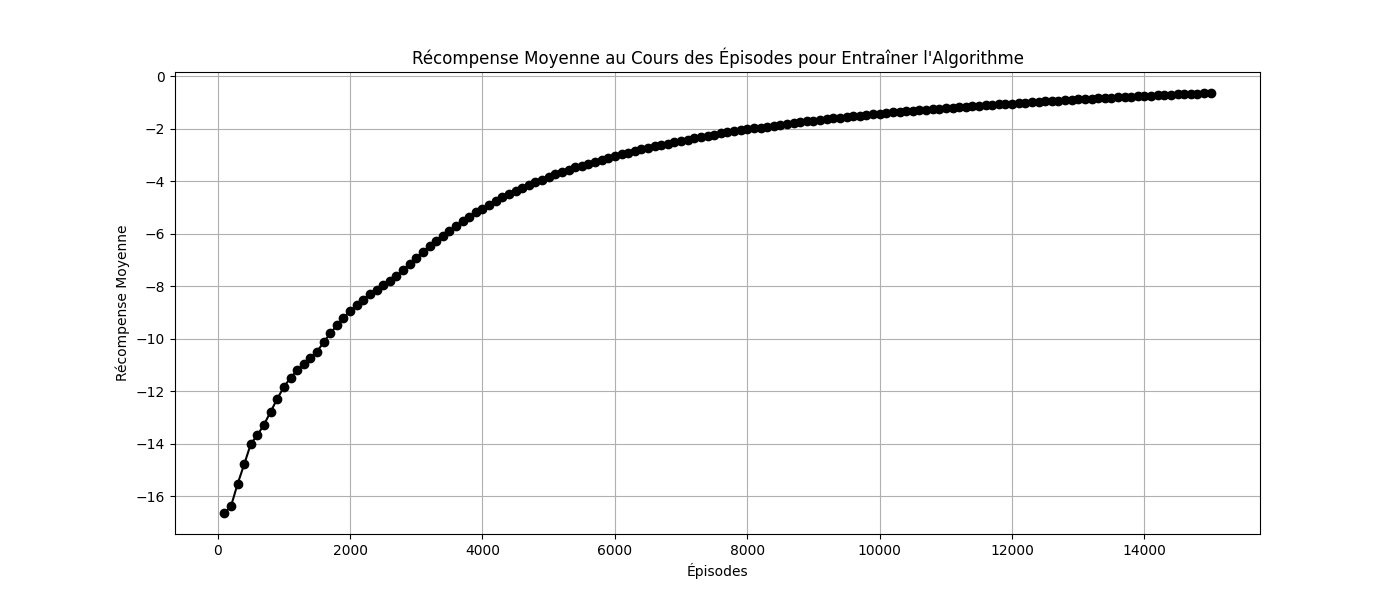
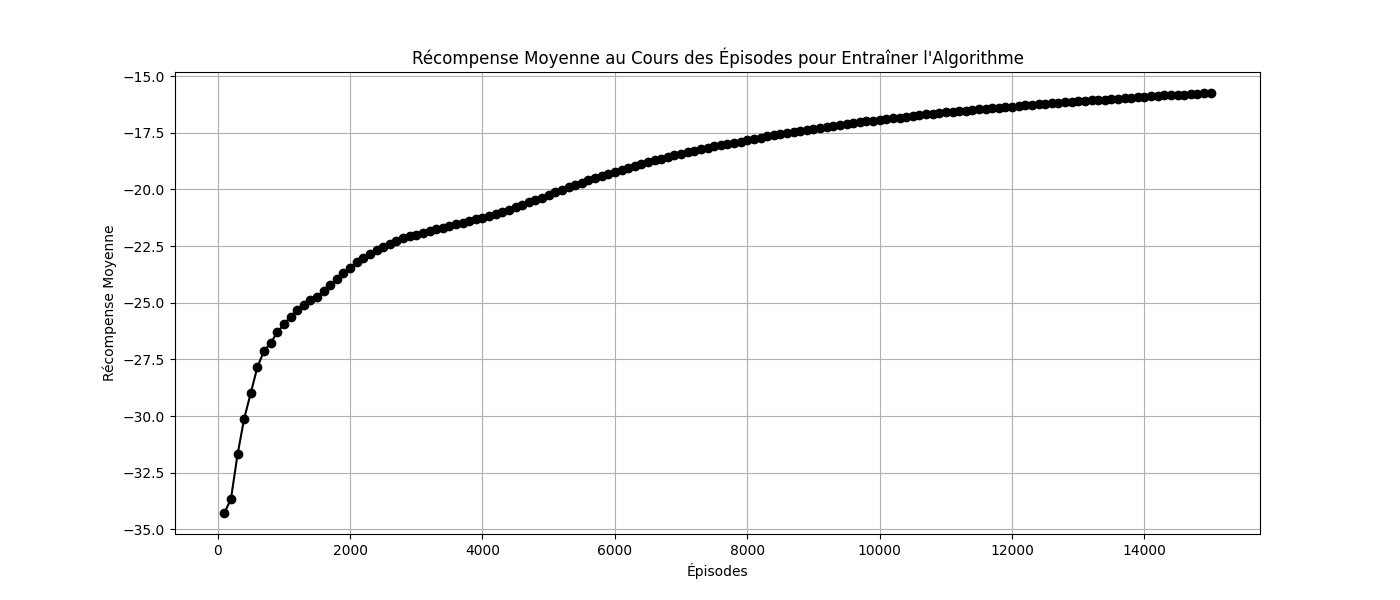
Agents Trained

diff --git a/multi_hydrogen_recharge/multi_hydrogen_recharge_random_actions.py b/multi_hydrogen_recharge/multi_hydrogen_recharge_random_actions.py
@@ -5,7 +5,7 @@ import pandas as pd
 
 # Set the default parameters for running the environment simulation
 seed = 30
-num_vehicles = 3
+num_vehicles = 7
 
 # --------------------------------------------------------------------
 
@@ -33,7 +33,7 @@ for episode in range(num_episodes):
       
     # Vehicles take random action
     #actions = np.random.rand(env.num_vehicles, 4) # Random actions
-    actions = np.array([[1., 0., 0., 0.] for _ in range(env.num_vehicles)]) # Only urgency and price policy
+    actions = np.array([[1., 0., 0., 1.] for _ in range(env.num_vehicles)]) # Only urgency and price policy
 
     # Execute the action and take the next observation, reward and done (terminal state)
     observation, rewards, done = env.step(actions)
@@ -90,8 +90,6 @@ ax1.tick_params(axis='y', labelcolor=color)
 plt.title("Moyenne des Récompenses au Cours des Épisodes pour Politique de Seulement Urgence et Prix")
 fig.tight_layout()
 plt.show()
-
-# Politique de Seulement Urgence et Prix
 
 print('Descriptive statistics of the number of steps')
 print(pd.Series(num_steps_list).describe())

diff --git a/multi_hydrogen_recharge/multi_hydrogen_recharge_test.py b/multi_hydrogen_recharge/multi_hydrogen_recharge_test.py
@@ -7,7 +7,7 @@ from env.multi_hydrogen_recharge import MultiHydrogenRecharge
 
 # Set the default parameters for running the environment simulation
 seed = 30
-num_vehicles = 3
+num_vehicles = 7
 
 # ---------------------------------------------------------------------
 

diff --git a/multi_hydrogen_recharge/multi_hydrogen_recharge_train.py b/multi_hydrogen_recharge/multi_hydrogen_recharge_train.py
@@ -10,7 +10,7 @@ import os
 
 # Set the default parameters for running the environment simulation
 seed = 42
-num_vehicles = 3
+num_vehicles = 7
  
 if num_vehicles == 3:
     checkpoint_path = "maddpg_agent_3v"
